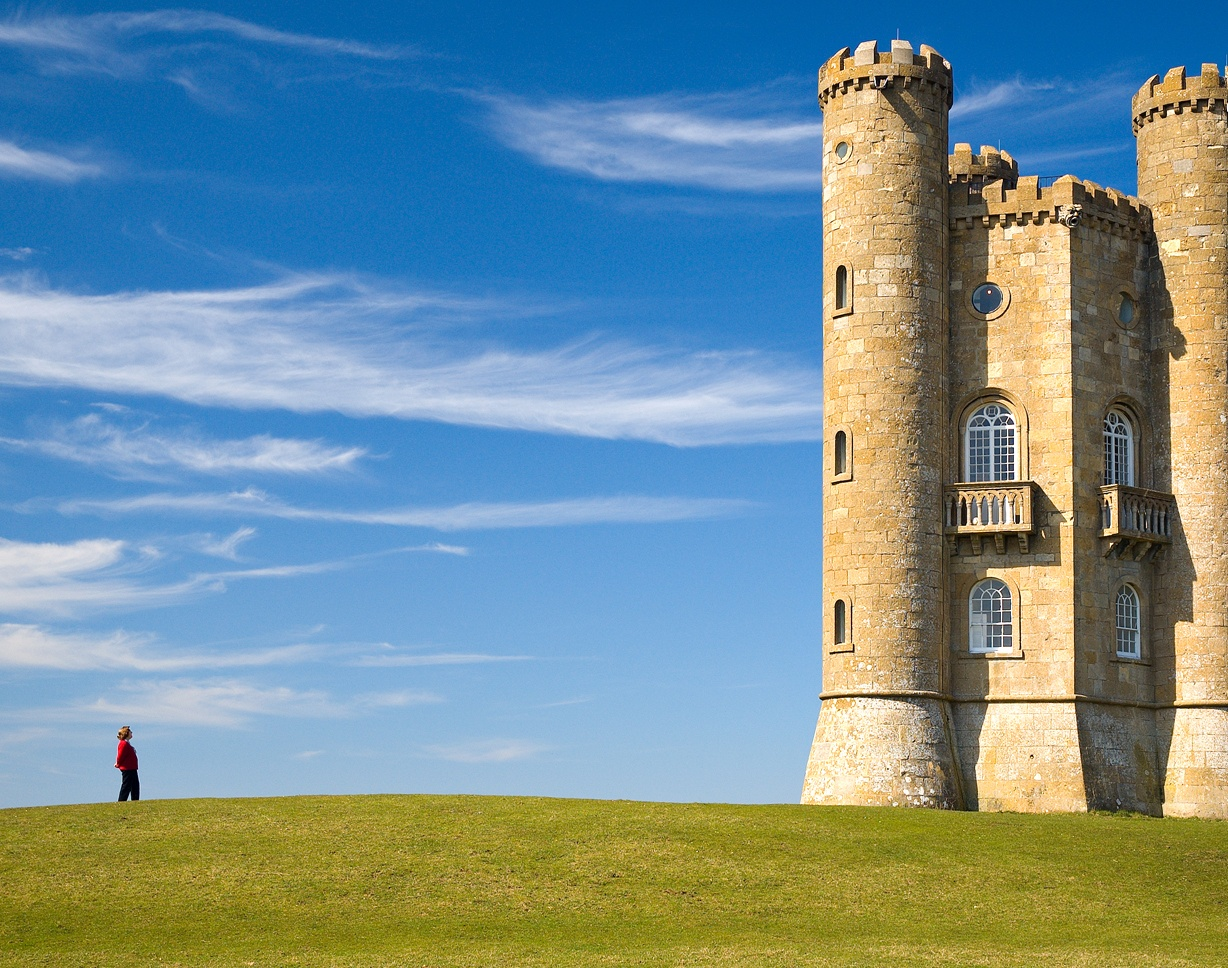
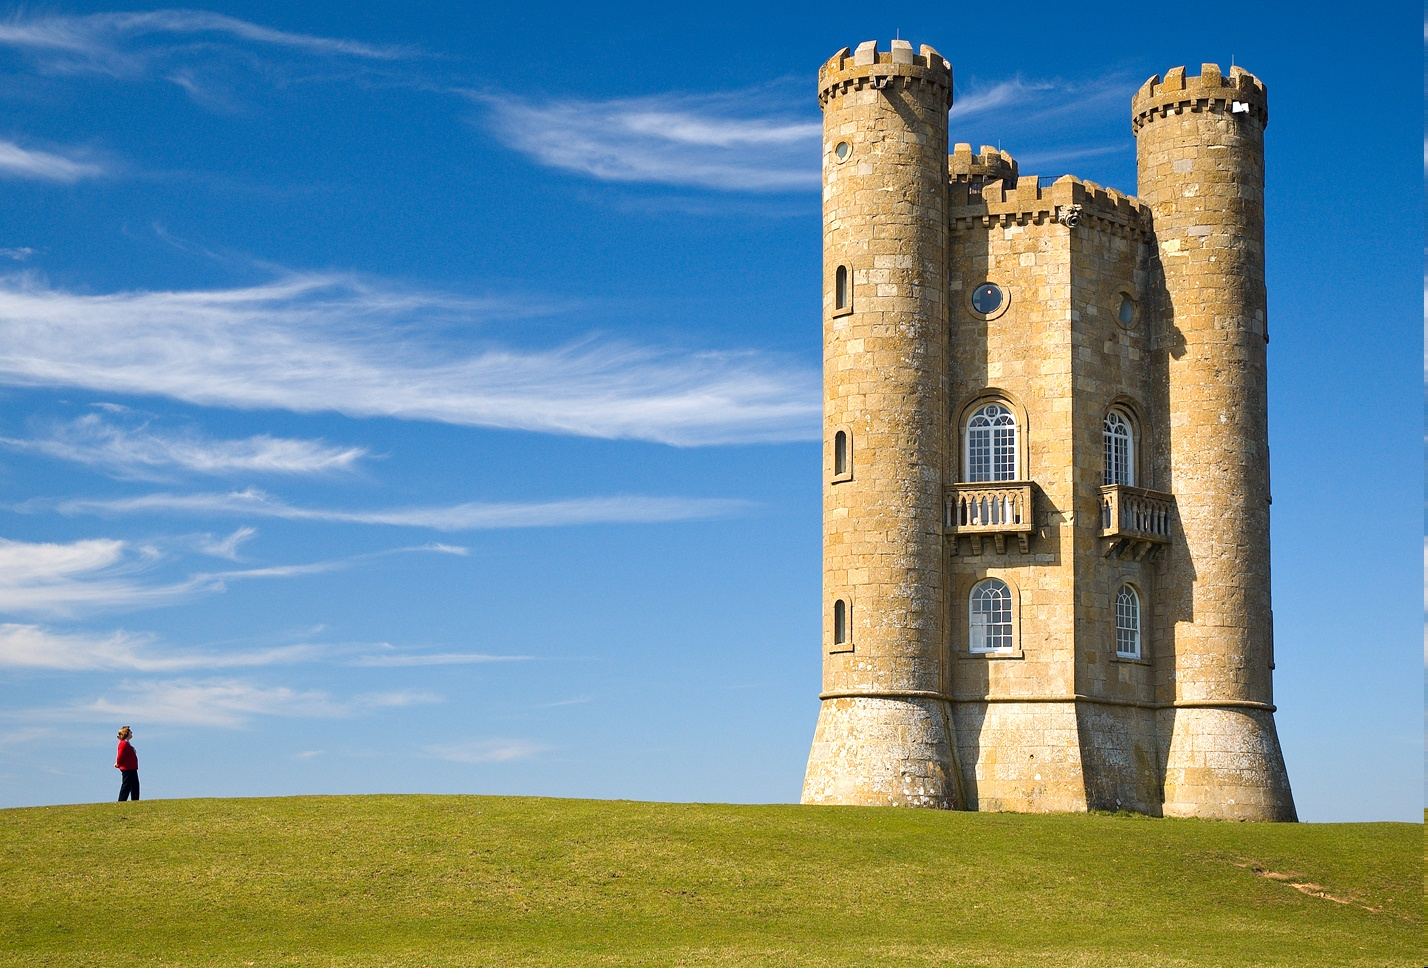
remove seams temporary

diff --git a/seam_carving_cuda.py b/seam_carving_cuda.py
@@ -146,7 +146,7 @@ def get_minimum_seam(img):
 def find_seams_index_by_rows(bool_mask, bool_mask_index):
     i, j = cuda.grid(2)
     if i < bool_mask.shape[0] and j < bool_mask.shape[1]:
-        if bool_mask[i][j]:
+        if not bool_mask[i][j]:
             bool_mask_index[i] = j
             # bool_mask_index[i] = bool_mask.shape[1]
 
@@ -163,7 +163,6 @@ def remove_seam_kernel(img, bool_mask, out_img, bool_mask_index):
                 out_img[i][j][ch] = img[i][j + 1][ch]
             else:
                 out_img[i][j][ch] = img[i][j][ch]
-
     return
 
 def remove_seams_kernel(img, num_remove, rot=False):
@@ -190,7 +189,9 @@ def remove_seams_kernel(img, num_remove, rot=False):
         # Send to GPU
         d_bool_mask = cuda.to_device(bool_mask)
         d_bool_mask_index = cuda.device_array((in_img.shape[0], 1))
-        d_out = cuda.device_array((in_img.shape[0], in_img.shape[1] - 1, in_img.shape[2]))
+        # d_out = cuda.device_array((in_img.shape[0], in_img.shape[1] - 1, in_img.shape[2]))
+        d_out = cuda.device_array((in_img.shape[0], in_img.shape[1], in_img.shape[2]))
+
         find_seams_index_by_rows[griddim, blockdim](d_bool_mask, d_bool_mask_index)
 
         remove_seam_kernel[griddim, blockdim](d_img, d_bool_mask, d_out, d_bool_mask_index)

diff --git a/seam_carving.py b/seam_carving.py
@@ -302,7 +302,6 @@ if __name__ == '__main__':
 
     img = cv2.imread(IN_IMG)
     assert img is not None
-    img = cv2.cvtColor(img, cv2.COLOR_BGR2RGB)
 
     print(img.shape)
 
@@ -310,6 +309,9 @@ if __name__ == '__main__':
         # TODO: resize input images base on dx and dy seam number
         dx, dy = args["dx"], args["dy"]
         assert dx is not None and dy is not None
+
+        img = cv2.cvtColor(img, cv2.COLOR_BGR2RGB)
+
         output = seam_carving_kernel(img, dx, dy)
 
         output = cv2.cvtColor(output, cv2.COLOR_RGB2BGR)
